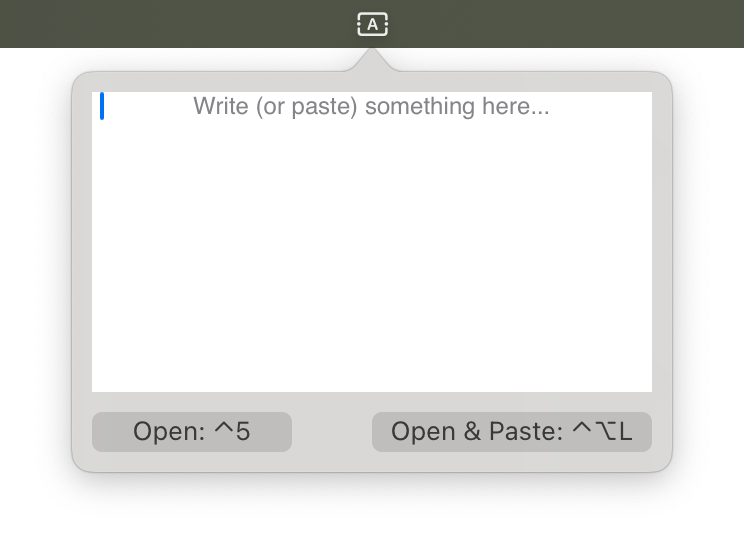
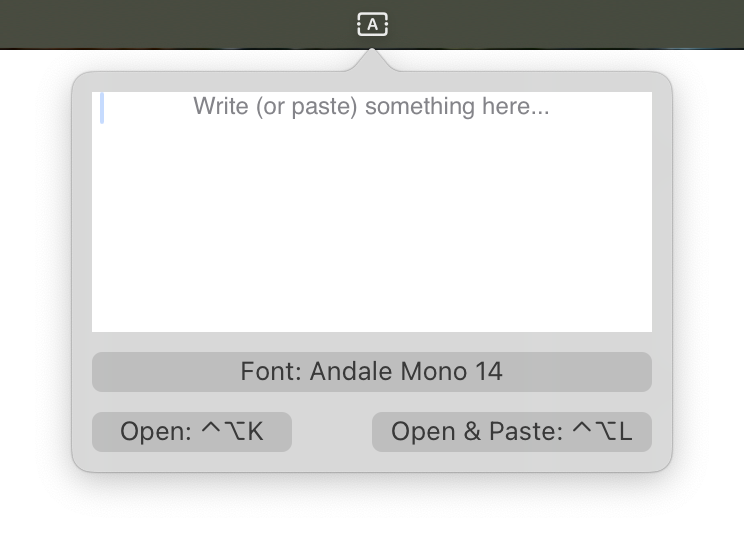
chore: update screenshot & info in readme

diff --git a/readme.md b/readme.md
@@ -7,6 +7,7 @@ inspired by a recent [post about a textarea widget for kde plasma](https://fosst
 - text area for all your text area needs
 - scrollable!
 - keybinds!! just open it, or open & paste the text from clipboard.
+- font picker! saved between restarts, ofc.
 
 ## default keybinds
 
@@ -17,7 +18,7 @@ changeable via the UI!
 
 ## screenshot
 
-![screenshot of the opened popup with a textarea and two buttons to change the keybinds](screenshot.png)
+![screenshot of the opened popup with a textarea, a button to change the font and two more buttons below it to change the keybinds](screenshot.png)
 
 ## building
 
